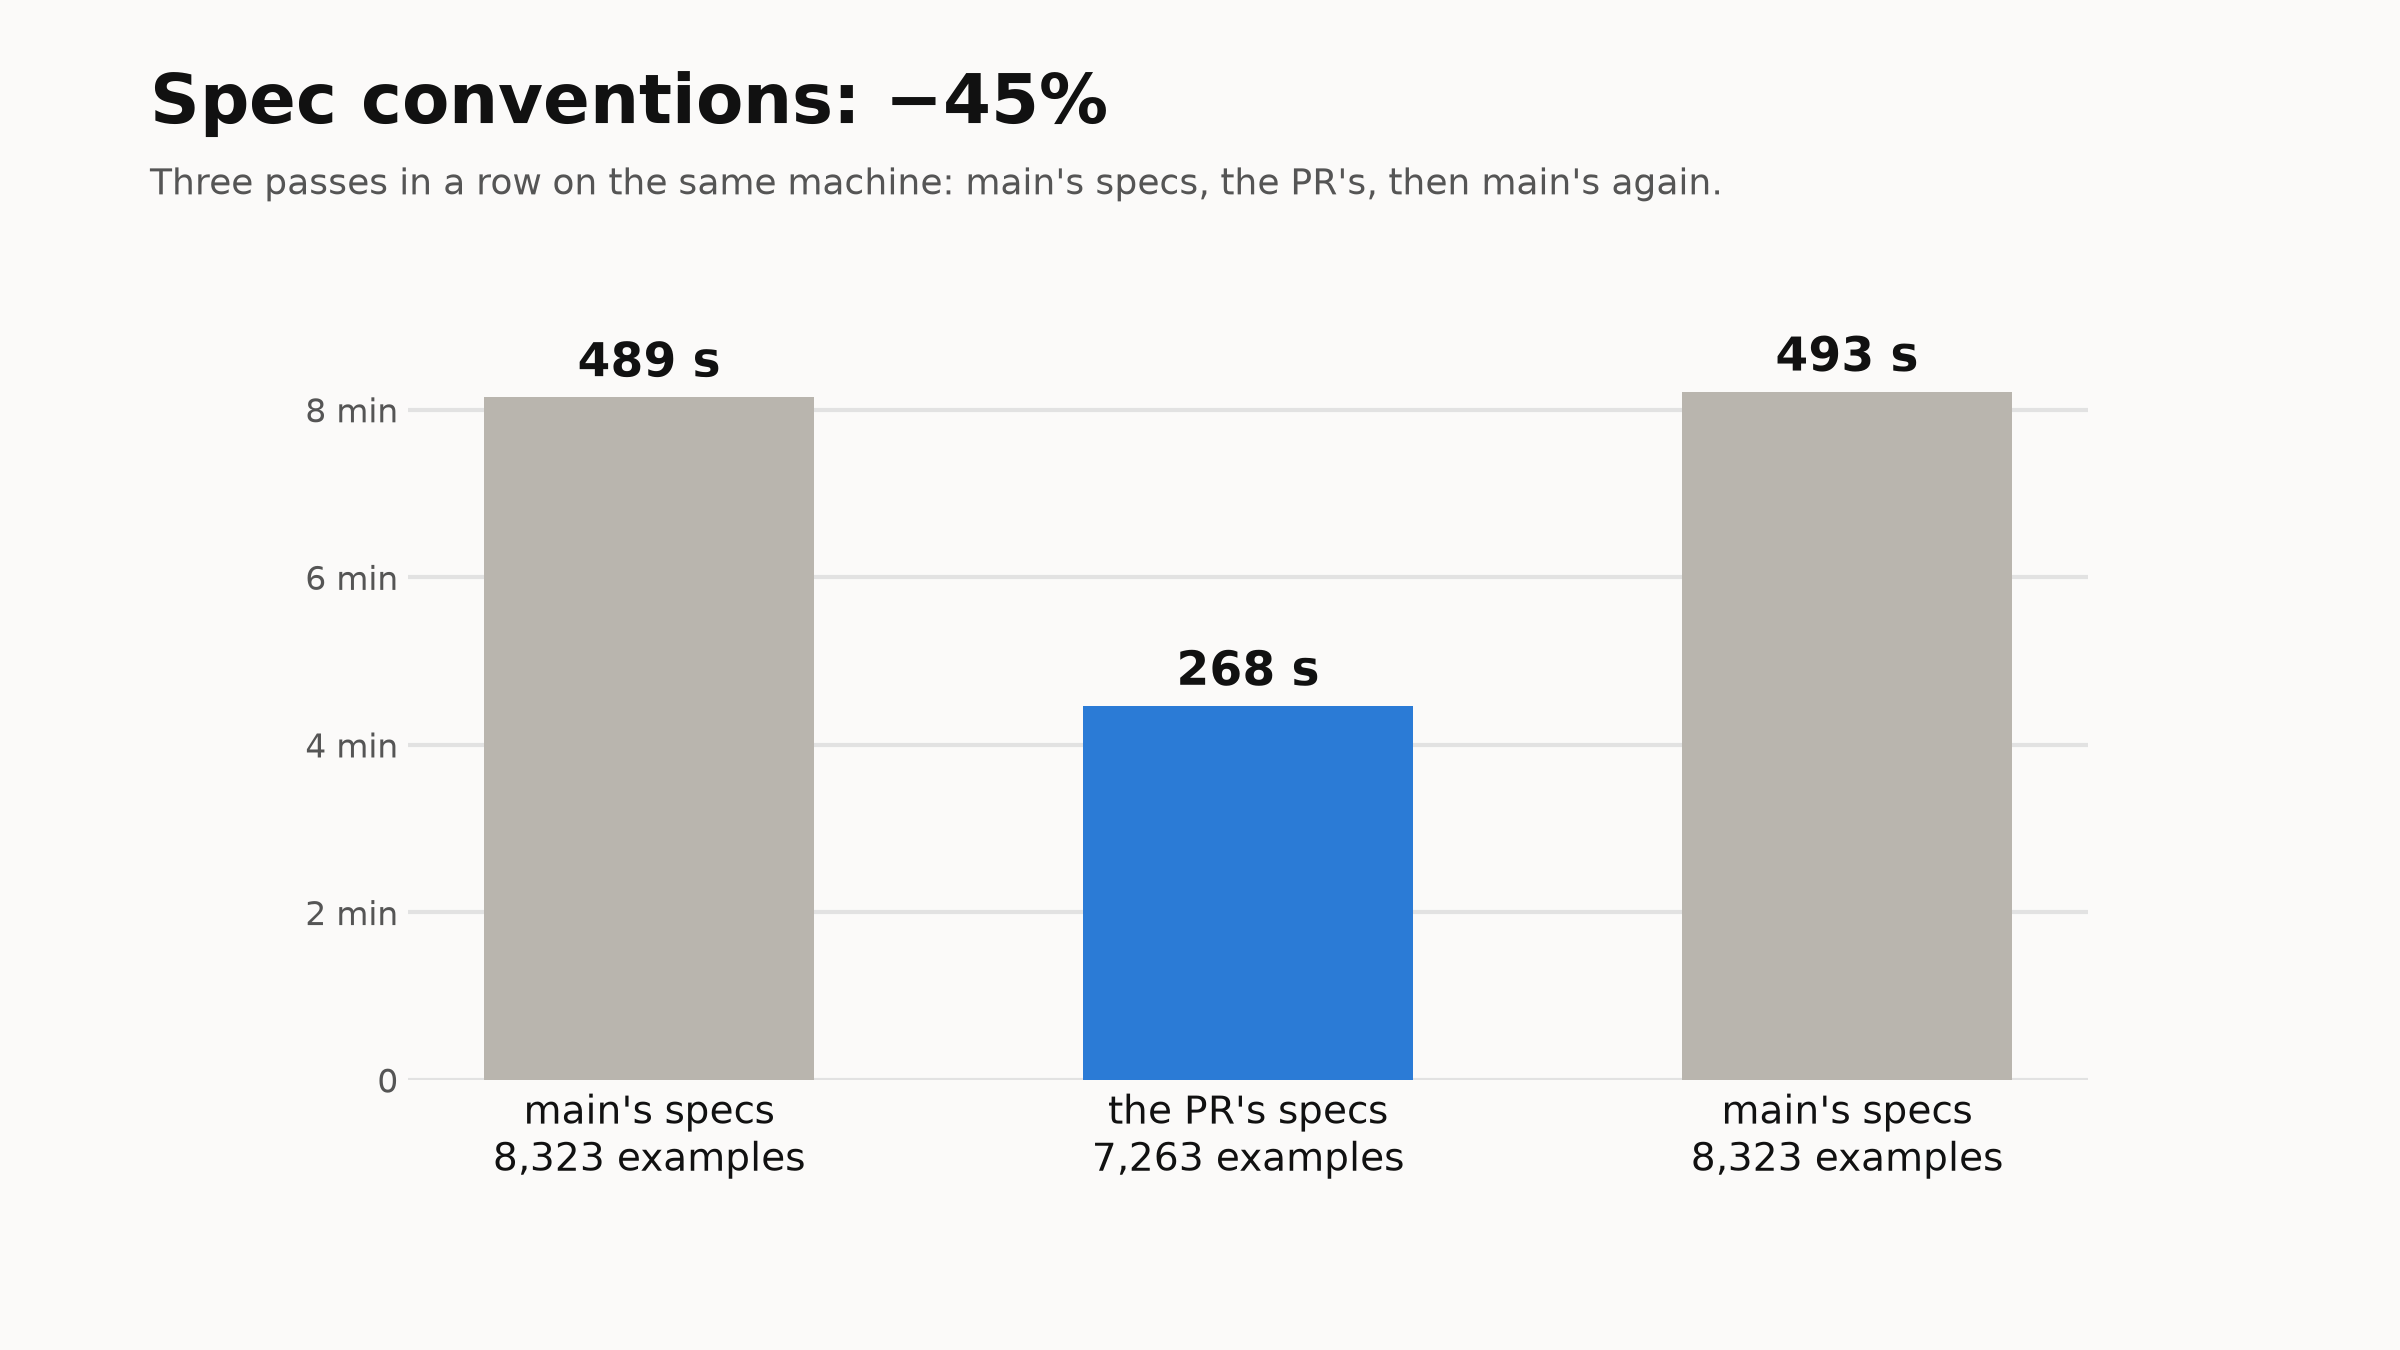
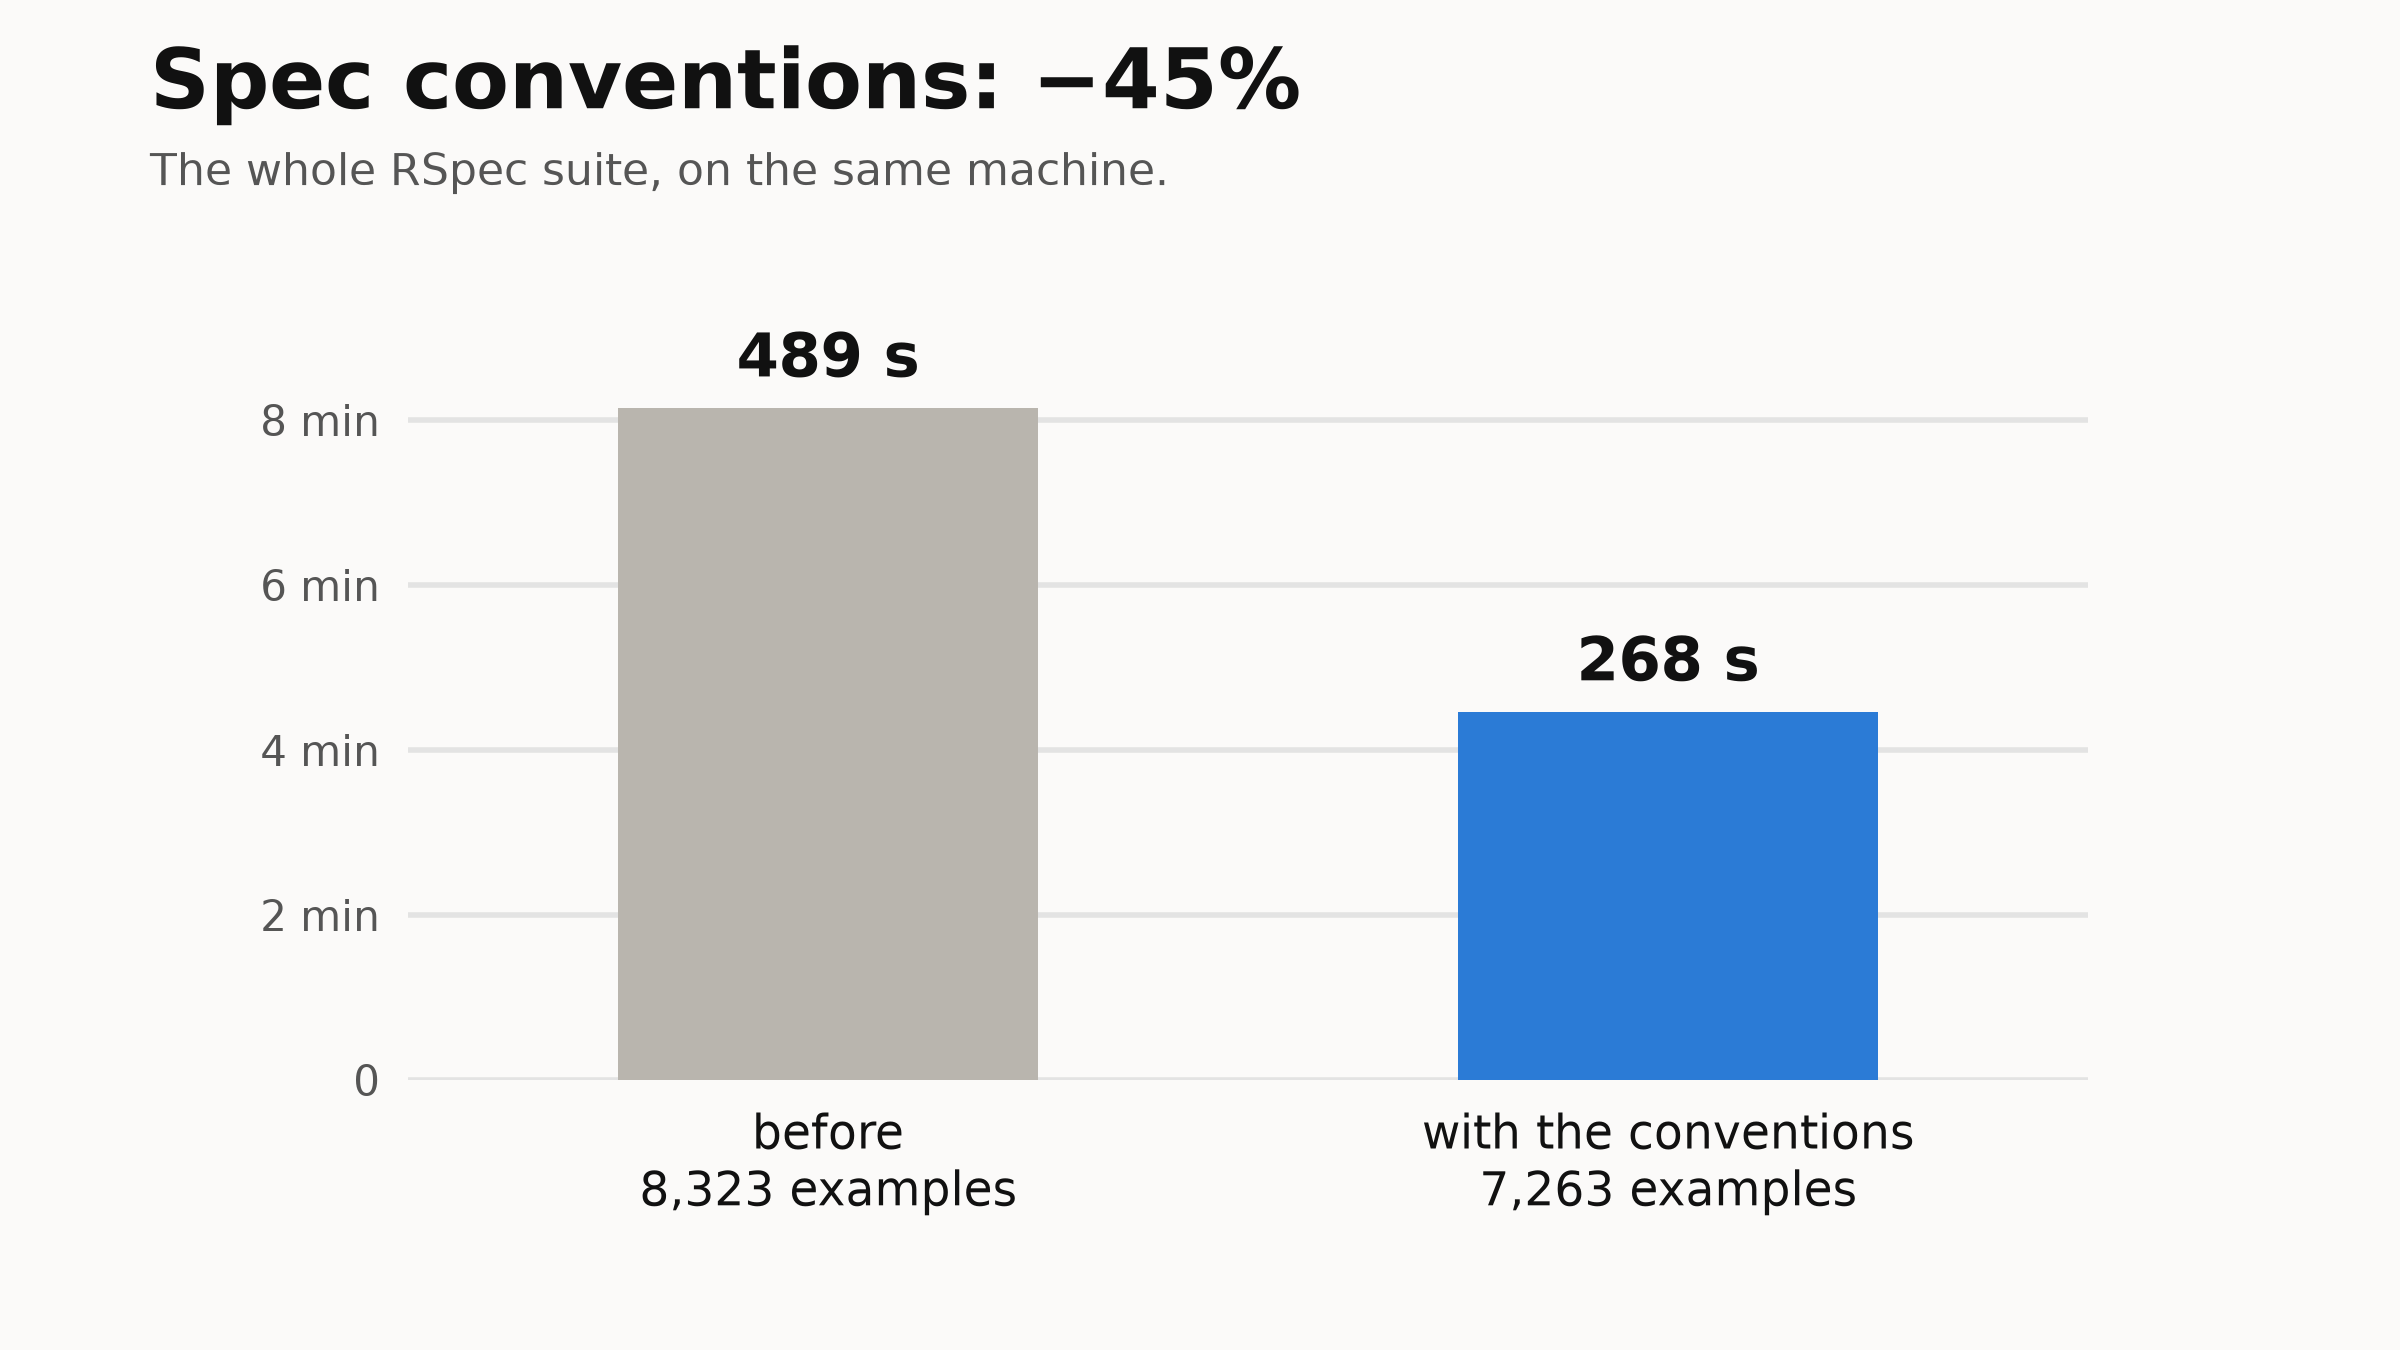
blog: Alléger les specs RSpec, le graphique en deux barres

Changed region(s): [[0.125, 0.2489, 0.8438, 0.9022], [0.0625, 0.0311, 0.7188, 0.1556], [0.125, 0.6533, 0.1562, 0.6844]]

diff --git a/content/blog/alleger-les-specs-rspec/fr.md b/content/blog/alleger-les-specs-rspec/fr.md
@@ -11,7 +11,7 @@ Chez un de nos clients, [paralléliser RSpec](/blog/paralleliser-rspec-sur-githu
 
 On a appliqué cinq conventions. Chacune a d'abord été mesurée seule, sur une seule machine : la suite d'origine, puis la suite avec la convention, l'une après l'autre. Ensemble, la suite passe de 489 à 268 s :
 
-![Durée de la suite sur la même machine : specs de main, de la PR, puis de main](conventions-fr.png "Les deux passes de main encadrent la mesure : 1 % d'écart entre elles.")
+![Durée de la suite sur la même machine, avant et avec les conventions](conventions-fr.png "De 489 à 268 s, sur la même machine.")
 
 ## Un seul exemple par setup coûteux
 

diff --git a/content/blog/alleger-les-specs-rspec/en.md b/content/blog/alleger-les-specs-rspec/en.md
@@ -11,7 +11,7 @@ At one of our clients, [parallelizing RSpec](/en/blog/parallelizing-rspec-on-git
 
 We applied five conventions. Each one was first measured alone, on a single machine: the original suite, then the suite with the convention, one after the other. Together, the suite goes from 489 to 268 s:
 
-![Suite duration on the same machine: main's specs, the PR's, then main's](conventions-en.png "The two main passes frame the measurement: 1% apart.")
+![Suite duration on the same machine, before and with the conventions](conventions-en.png "From 489 to 268 s, on the same machine.")
 
 ## One example per expensive setup
 
